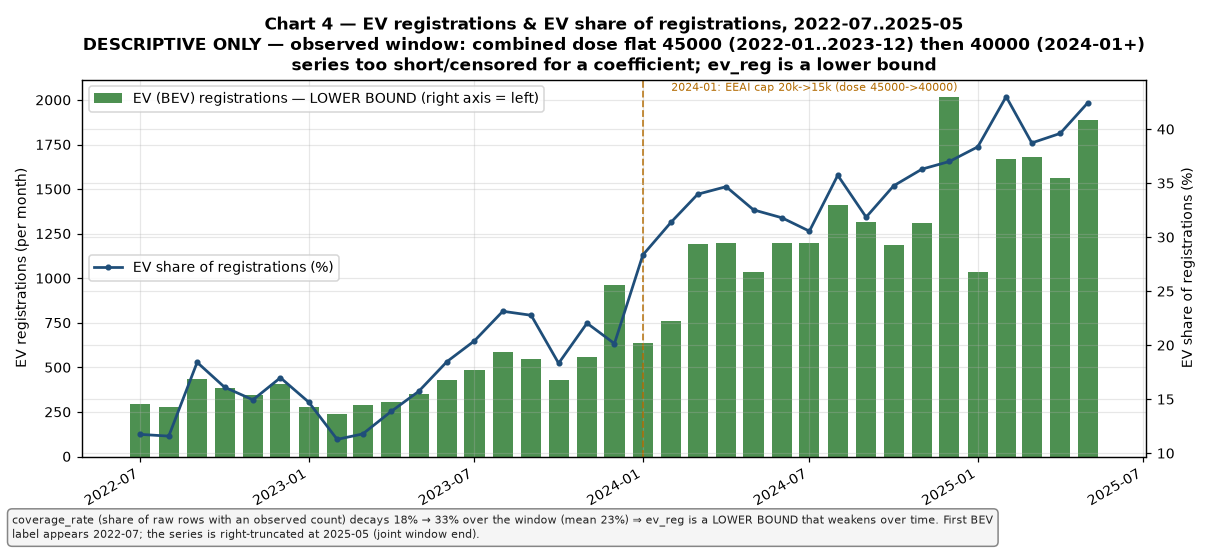
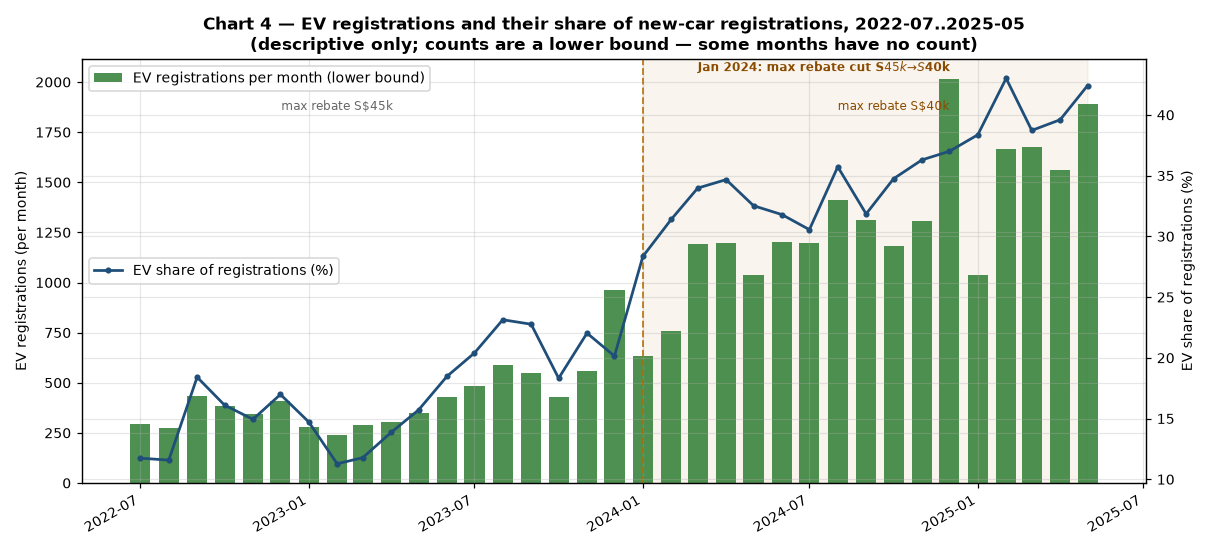
Figure 4: plain title, no 'dose', no bottom textbox, mark rebate change
- title: drop the technical dose/censoring subtitle; keep one plain
  lower-bound caveat line
- 'dose' -> 'max rebate S$45k -> S$40k' throughout Figure 4
- remove the bottom coverage-rate textbox (detail stays in the report)
- mark the rebate regime change on the chart: dashed line + shaded
  region at Jan 2024, 'max rebate S$45k'/'S$40k' regime labels
- README Figure 4 caption updated (it previously called the dashed
  line a lower bound)
- verify: 9/9 pass

diff --git a/src/13_charts.py b/src/13_charts.py
@@ -278,45 +278,40 @@ def chart04() -> None:
 
     fig, ax1 = plt.subplots(figsize=(11, 5))
     ax1.bar(ev["ts"], ev["ev_reg"], width=22, color="#2e7d32", alpha=0.85,
-            label="EV (BEV) registrations — LOWER BOUND (right axis = left)")
+            label="EV registrations per month (lower bound)")
     ax1.set_ylabel("EV registrations (per month)")
     ax1.set_title(
-        "Chart 4 — EV registrations & EV share of registrations, 2022-07..2025-05\n"
-        "DESCRIPTIVE ONLY — observed window: combined dose flat 45000 (2022-01..2023-12) "
-        "then 40000 (2024-01+)\n"
-        "series too short/censored for a coefficient; ev_reg is a lower bound",
+        "Chart 4 — EV registrations and their share of new-car "
+        "registrations, 2022-07..2025-05\n"
+        "(descriptive only; counts are a lower bound — some months have no "
+        "count)",
     )
     ax2 = ax1.twinx()
     ax2.plot(ev["ts"], ev["ev_share"] * 100, color="#1f4e79", lw=1.8,
              marker="o", ms=3, label="EV share of registrations (%)")
     ax2.set_ylabel("EV share of registrations (%)")
-    # mark the 2024-01 dose step
-    ax1.axvline(_p("2024-01"), color="#b26a00", ls="--", lw=1.2, alpha=0.8)
-    ax1.annotate("2024-01: EEAI cap 20k->15k (dose 45000->40000)",
-                 xy=(_p("2024-02"), ax1.get_ylim()[1] * 0.97), fontsize=7.5,
-                 color="#b26a00")
+    # rebate level in force during the window, and where it changed:
+    # S$45k (from the Jan 2022 ARF-floor change) until Dec 2023, then
+    # S$40k after the Jan 2024 EEAI cap cut.
+    ax1.axvspan(_p("2024-01"), ev["ts"].max(), color="#b26a00", alpha=0.07,
+                zorder=0)
+    ax1.axvline(_p("2024-01"), color="#b26a00", ls="--", lw=1.2, alpha=0.85,
+                zorder=4)
+    ax1.annotate(
+        "Jan 2024: max rebate cut S$45k → S$40k",
+        xy=(_p("2024-03"), ax1.get_ylim()[1] * 0.97), fontsize=8,
+        color="#8a4b00", fontweight="bold",
+    )
+    ax1.text(_p("2023-02"), ax1.get_ylim()[1] * 0.88, "max rebate S$45k",
+             ha="center", fontsize=8, color="#666666")
+    ax1.text(_p("2024-10"), ax1.get_ylim()[1] * 0.88, "max rebate S$40k",
+             ha="center", fontsize=8, color="#8a4b00")
     ax1.legend(loc="upper left")
     ax2.legend(loc="center left")
-    # coverage lower-bound note — bottom caption band:
-    # as an in-axis top-right box it was hidden behind the upper-left legend
     ax1.xaxis.set_major_formatter(mdates.DateFormatter("%Y-%m"))
     ax1.xaxis.set_major_locator(mdates.MonthLocator(bymonth=(1, 7)))
     fig.autofmt_xdate()
     fig.tight_layout()
-    cov = ev["coverage_rate"]
-    note = (
-        f"coverage_rate (share of raw rows with an observed count) decays "
-        f"{cov.min()*100:.0f}% → {cov.max()*100:.0f}% over the window "
-        f"(mean {cov.mean()*100:.0f}%) ⇒ ev_reg is a LOWER BOUND that weakens over time. "
-        "First BEV label appears 2022-07; the series is right-truncated at 2025-05 "
-        "(joint window end)."
-    )
-    fig.text(
-        0.01, 0.015, textwrap.fill(note, width=165),
-        ha="left", va="bottom", fontsize=7.5, color="#222222",
-        bbox=dict(boxstyle="round,pad=0.4", fc="#f5f5f5", ec="gray", alpha=0.95),
-    )
-    fig.subplots_adjust(bottom=0.17)
     fig.savefig(CHARTS / "04_ev_demand.png")
     plt.close(fig)
     print("[chart04] wrote charts/04_ev_demand.png + tables/chart04_ev_demand.csv")

diff --git a/README.md b/README.md
@@ -173,9 +173,10 @@ with the data-coverage lower bound.
 
 ![EV registrations and their share of new cars, with the data-coverage lower bound](charts/04_ev_demand.png)
 
-*Electric car registrations and their share of new-car sales from 2022
-(when the official EV label first appeared). The dashed line is a lower bound
-due to missing counts.*
+*Electric car registrations and their share of new-car registrations from
+2022-07 (when the official EV label first appears); bars are a lower bound
+because some months have no count. The dashed line marks the Jan 2024 cut
+of the maximum rebate from S$45k to S$40k.*
 
 **Figure 5.** Category A COE price (left axis) vs number of bids received
 (right axis), over the same period.
